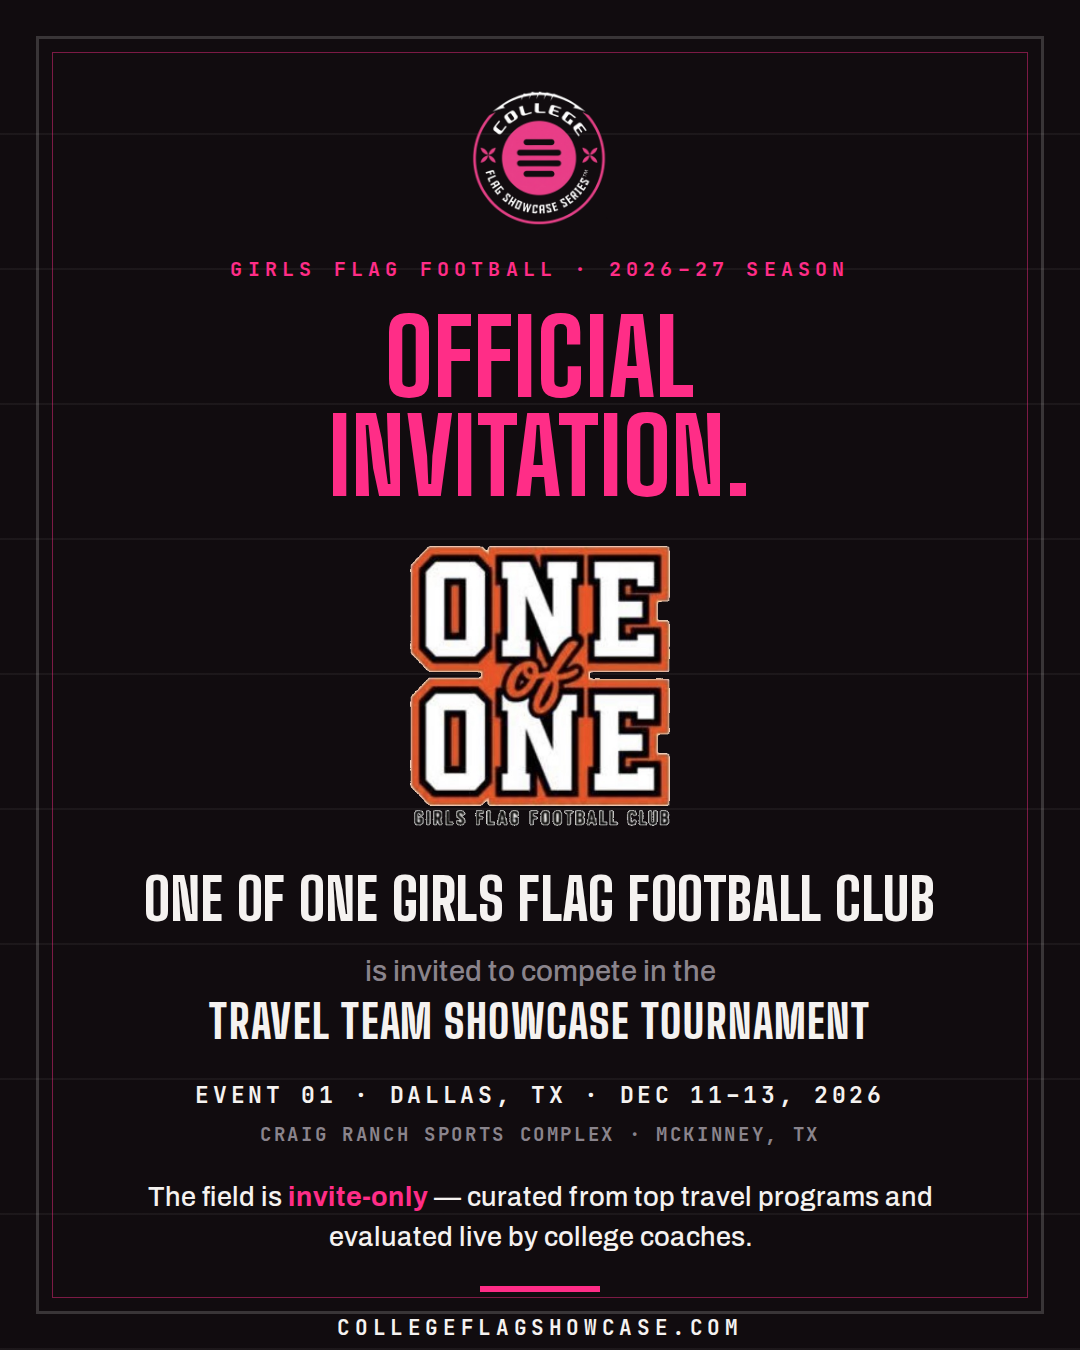
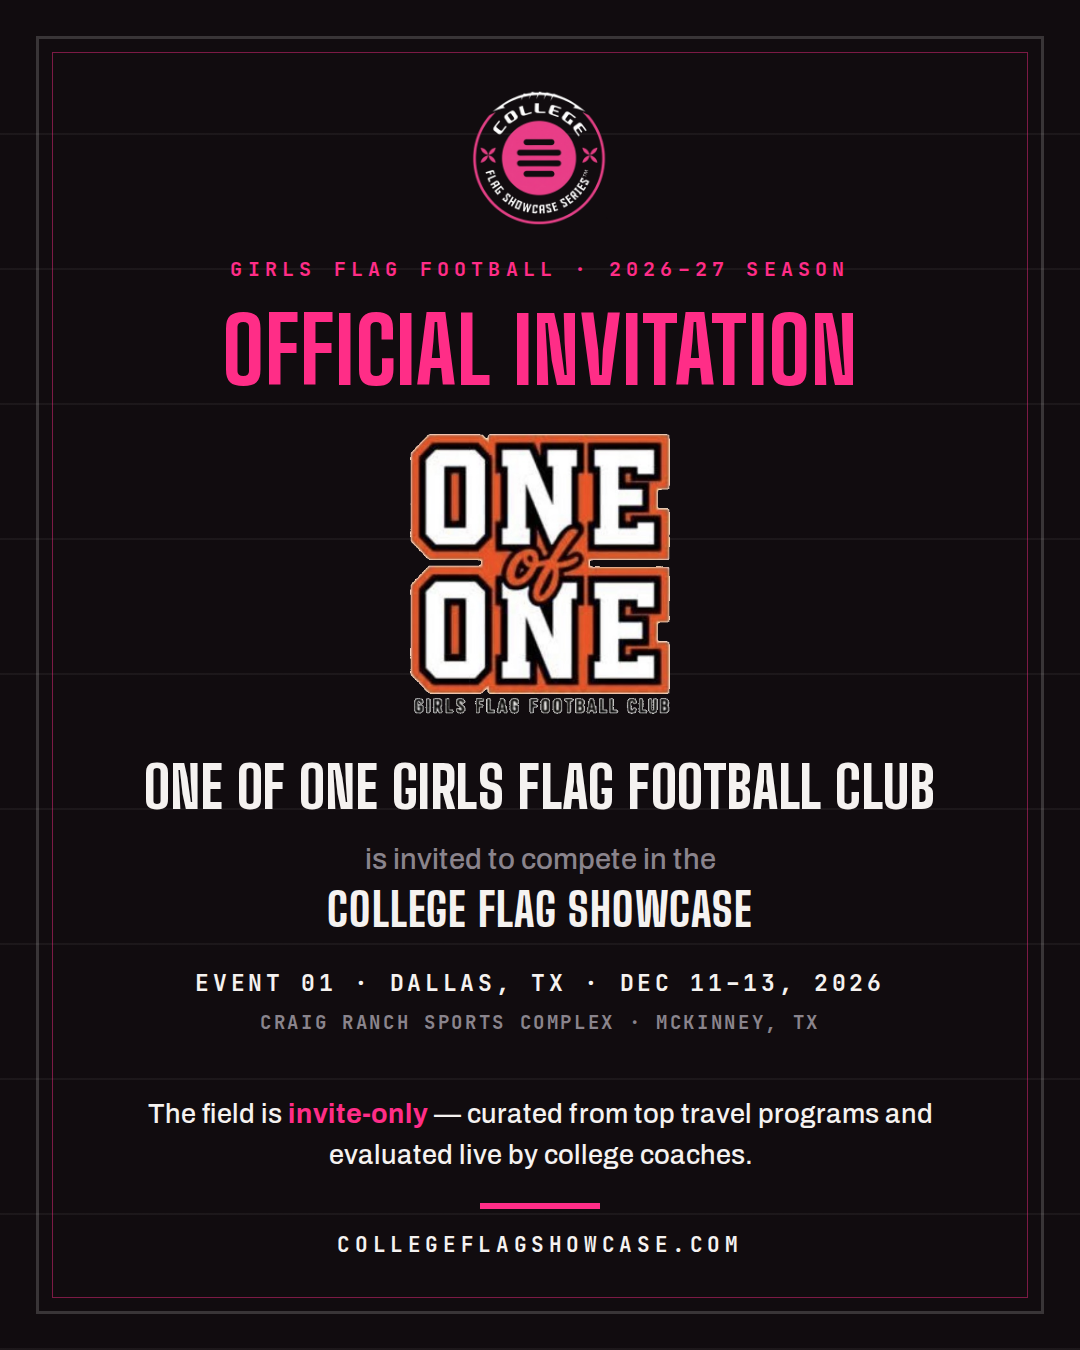
Invitation: one-line title; tournament named College Flag Showcase
Claude-Session: https://claude.ai/code/session_019V32boShoBmRrwWenCPJFc

Changed region(s): [[0.1222, 0.2178, 0.8861, 0.7778], [0.1528, 0.8089, 0.8556, 0.9956], [0.6417, 0.9644, 0.7028, 0.9956]]

diff --git a/collateral/invite-team-official.html b/collateral/invite-team-official.html
@@ -42,7 +42,7 @@
   .cfs-logo{width:140px;height:140px;margin-bottom:28px}
   .kicker{font-family:var(--mono);font-size:20px;font-weight:700;letter-spacing:.26em;text-transform:uppercase;color:var(--red);white-space:nowrap}
 
-  .invite-title{margin-top:26px;font-family:var(--display);font-weight:800;text-transform:uppercase;line-height:.95;letter-spacing:.01em;font-size:104px;color:var(--red)}
+  .invite-title{margin-top:26px;font-family:var(--display);font-weight:800;text-transform:uppercase;line-height:.95;letter-spacing:.01em;font-size:90px;color:var(--red);white-space:nowrap}
   .org-logo{margin-top:40px;height:280px;max-width:640px;object-fit:contain;flex-shrink:0}
   .org-name{margin-top:44px;font-family:var(--display);font-weight:800;text-transform:uppercase;line-height:1;letter-spacing:.01em;font-size:58px;max-width:880px}
 
@@ -67,11 +67,11 @@
   <div class="inner">
     <img class="cfs-logo" src="../public/logo.png" alt="College Flag Showcase Series" />
     <p class="kicker">Girls Flag Football &middot; 2026&ndash;27 Season</p>
-    <h1 class="invite-title">Official<br />Invitation.</h1>
+    <h1 class="invite-title">Official Invitation</h1>
     <img class="org-logo" src="{{LOGO}}" alt="{{NAME}}" />
     <h2 class="org-name">{{NAME}}</h2>
     <p class="invited-line">is invited to compete in the</p>
-    <h3 class="tourney">Travel Team Showcase Tournament</h3>
+    <h3 class="tourney">College Flag Showcase</h3>
     <p class="event-line">{{EVENT_LINE}}</p>
     <p class="venue-line">{{VENUE_LINE}}</p>
     <p class="sub">The field is <b>invite-only</b> &mdash; curated from top travel programs and evaluated live by college coaches.</p>
